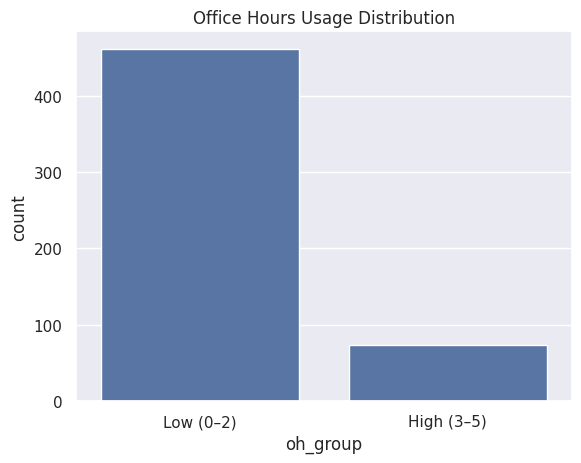
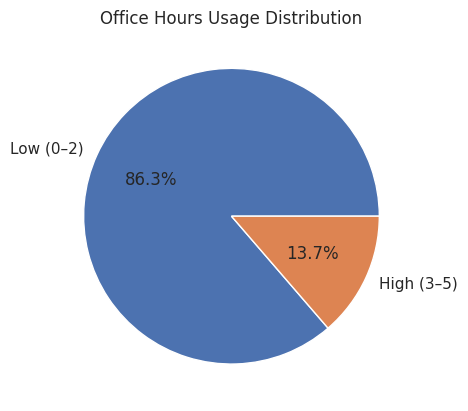
new graphs

diff --git a/index.md b/index.md
@@ -4,10 +4,9 @@ layout: default
 ---
 # Office Hours and Student Learning Outcomes
 
-## Project Summary
+## Analysis Summary
 
-This project analyzes survey data to explore the relationship between office hours usage and student learning outcomes, including understanding and perceived difficulty.
-Students were grouped into low (0–2 visits) and high (3–5 visits) office hours usage categories to compare differences in learning experiences.
+This project analyzes survey data to explore the relationship between office hours usage and student learning outcomes, including understanding and perceived difficulty. Students were grouped into low (0–2 visits) and high (3–5 visits) office hours usage categories to compare differences in learning experiences.
 
 ## Visualization 
 
@@ -18,7 +17,7 @@ Students were grouped into low (0–2 visits) and high (3–5 visits) office hou
 ### Figure Caption
 Average student understanding rating compared between low (0–2 visits) and high (3–5 visits) office hours usage groups.
 ### Description 
-This bar chart compares self-reported understanding across students with different levels of office hours attendance. Students in the high usage group report slightly lower average understanding than those in the low usage group. This suggests that students who attend office hours more frequently may be doing so because they already feel less confident in their understanding of the material.
+This bar chart compares self-reported understanding averages across students with different levels of office hours attendance. Students in the high usage group report slightly lower average understanding than those in the low usage group. The scale on the y-axis is the understanding from 1-7 (1 being Are Lost and 7 being Understanding Everything.) This suggests that students who attend office hours more frequently may be doing so because they already feel less confident in their understanding of the material.
 
 ### Difficulty by Office Hours Usage
 <img src="/github-cjohndro.github.io-ex09/difficulty.png" width="600"/>
@@ -27,7 +26,7 @@ This bar chart compares self-reported understanding across students with differe
 ### Figure Caption 
 Comparison of perceived course difficulty between low and high office hours usage groups.
 ### Description
-This box plot shows that students who attend office hours more frequently tend to report higher perceived difficulty in the course. The distribution for the high usage group is shifted upward compared to the low usage group. This supports the idea that office hours are more commonly used by students who are struggling rather than by students who already understand the material well.
+This box plot shows that students who attend office hours more frequently tend to report higher perceived difficulty in the course. The distribution for the high usage group is shifted upward compared to the low usage group. The scale on the y-axis is the difficulty from 1-7 (1 being Very Easy and 7 being Very Difficult). This supports the idea that office hours are more commonly used by students who are struggling rather than by students who already understand the material well.
 
 ### Office Hours Usage Distribution
 <img src="/github-cjohndro.github.io-ex09/oh_usage.png" width="600"/> 
@@ -35,7 +34,7 @@ This box plot shows that students who attend office hours more frequently tend t
 ### Figure Caption
 Distribution of students across low (0–2) and high (3–5) office hours usage categories.
 ### Description 
-This count plot shows how many students fall into each office hours usage group. Most students are in the low usage category, with fewer students reporting frequent office hours attendance. This provides context for the other plots by showing that high office hours usage is less common in the dataset.
+This pie chart shows how many students fall into each office hours usage group. Most students are in the low usage category, with fewer students reporting frequent office hours attendance. This provides context for the other plots by showing that high office hours usage is less common in the dataset.
 
 ## Conclusion
 
